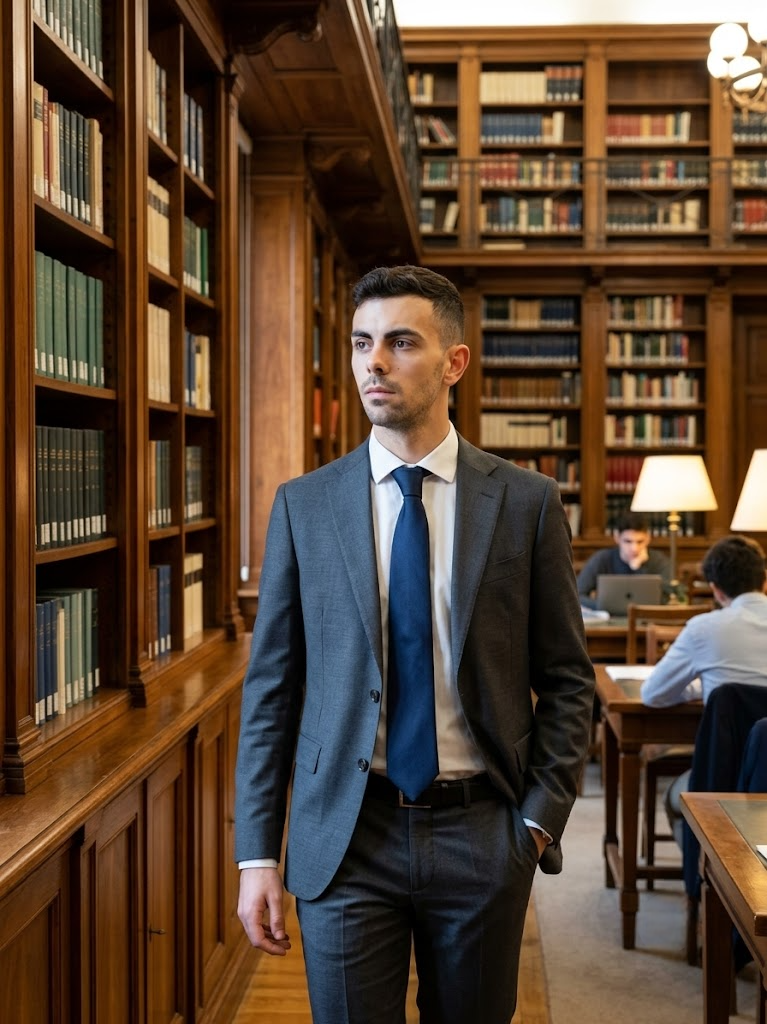
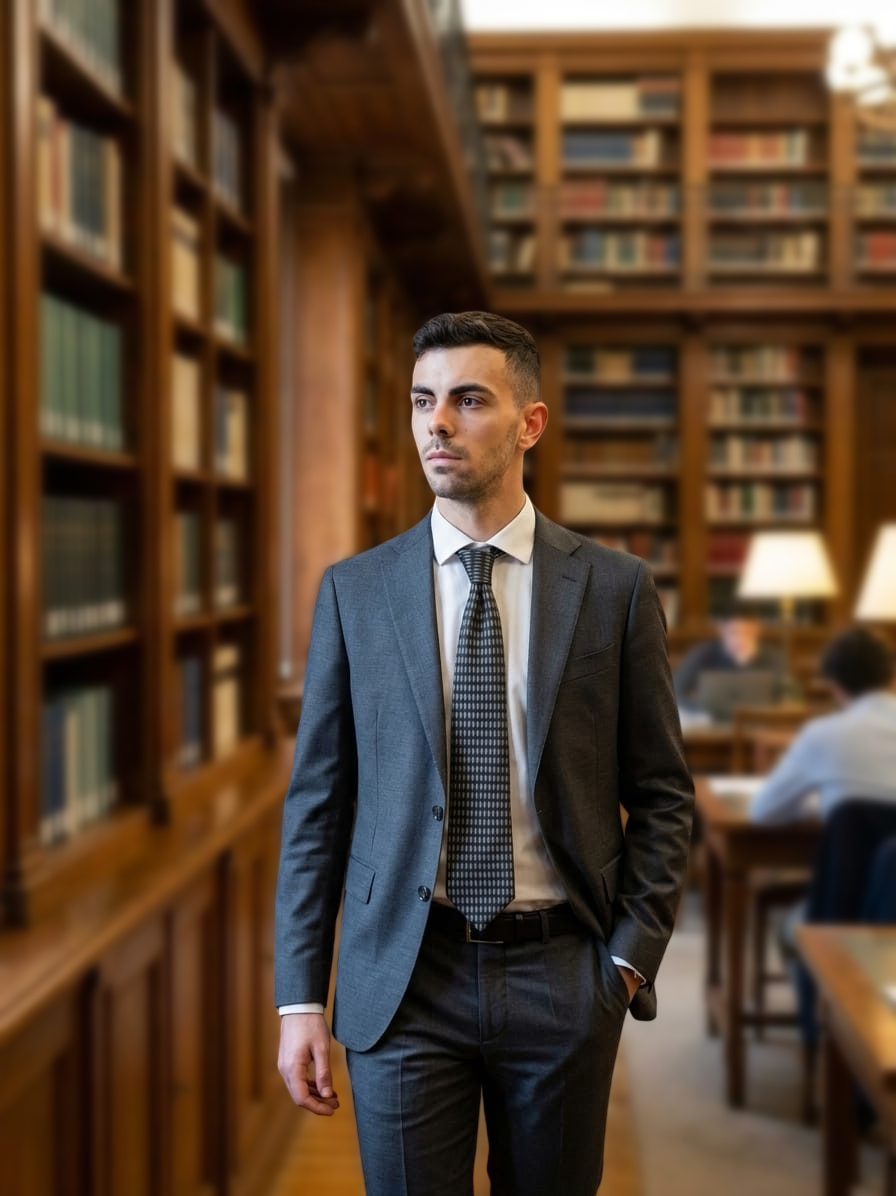
Add versioning and workflow of deploy

diff --git a/index.html b/index.html
@@ -278,23 +278,17 @@
                 <div class="ide-tree" id="skillTree">
                     <div class="tree-group">
                         <div class="tree-label">Linguaggi &amp; Framework</div>
-                        <div class="tree-item active" data-target="skill-java"><span class="level-dot"
-                                style="background:var(--green)"></span>Java</div>
-                        <div class="tree-item" data-target="skill-web"><span class="level-dot"
-                                style="background:var(--blue)"></span>Web (HTML/CSS/JS)</div>
-                        <div class="tree-item" data-target="skill-node"><span class="level-dot"
-                                style="background:var(--red)"></span>Node.js</div>
+                        <div class="tree-item active" data-target="skill-java"><svg class="tree-icon" viewBox="0 0 24 24" fill="none" stroke="currentColor" stroke-width="1.7" stroke-linecap="round" stroke-linejoin="round" style="color:var(--green)"><path d="M6 13h9v3.5a2.5 2.5 0 0 1-2.5 2.5h-4a2.5 2.5 0 0 1-2.5-2.5z"/><path d="M15 14h1.5a2 2 0 0 1 0 4H15"/><path d="M8.5 4.5c-.8.8-.8 1.7 0 2.5M11.5 4.5c-.8.8-.8 1.7 0 2.5"/></svg>Java</div>
+                        <div class="tree-item" data-target="skill-web"><svg class="tree-icon" viewBox="0 0 24 24" fill="none" stroke="currentColor" stroke-width="1.8" stroke-linecap="round" stroke-linejoin="round" style="color:var(--blue)"><polyline points="8 8 4 12 8 16"/><polyline points="16 8 20 12 16 16"/><line x1="13.5" y1="6" x2="10.5" y2="18"/></svg>Web (HTML/CSS/JS)</div>
+                        <div class="tree-item" data-target="skill-node"><svg class="tree-icon" viewBox="0 0 24 24" fill="none" stroke="currentColor" stroke-width="1.7" stroke-linejoin="round" style="color:var(--red)"><path d="M12 2.5 20 7v10l-8 4.5L4 17V7z"/></svg>Node.js</div>
                     </div>
                     <div class="tree-group">
                         <div class="tree-label">Strumenti</div>
-                        <div class="tree-item" data-target="skill-ide"><span class="level-dot"
-                                style="background:var(--green)"></span>IDE &amp; Editor</div>
-                        <div class="tree-item" data-target="skill-db"><span class="level-dot"
-                                style="background:var(--blue)"></span>Database</div>
-                        <div class="tree-item" data-target="skill-docker"><span class="level-dot"
-                                style="background:var(--blue)"></span>Docker</div>
-                        <div class="tree-item" data-target="skill-git"><span class="level-dot"
-                                style="background:var(--amber)"></span>Git</div>
+                        <div class="tree-item" data-target="skill-ide"><svg class="tree-icon" viewBox="0 0 24 24" fill="none" stroke="currentColor" stroke-width="1.7" stroke-linecap="round" stroke-linejoin="round" style="color:var(--green)"><rect x="3" y="4.5" width="18" height="15" rx="2"/><path d="M3 9h18"/><path d="M8 12.5l2 2-2 2"/><path d="M12.5 16.5H16"/></svg>IDE &amp; Editor</div>
+                        <div class="tree-item" data-target="skill-claude"><svg class="tree-icon" viewBox="0 0 24 24" fill="none" stroke="currentColor" stroke-width="1.7" stroke-linecap="round" style="color:var(--amber)"><path d="M12 2.5v6M12 15.5v6M2.5 12h6M15.5 12h6M5.3 5.3l4.2 4.2M14.5 14.5l4.2 4.2M5.3 18.7l4.2-4.2M14.5 9.5l4.2-4.2"/></svg>Claude Code</div>
+                        <div class="tree-item" data-target="skill-db"><svg class="tree-icon" viewBox="0 0 24 24" fill="none" stroke="currentColor" stroke-width="1.7" stroke-linecap="round" stroke-linejoin="round" style="color:var(--blue)"><ellipse cx="12" cy="6" rx="7" ry="3"/><path d="M5 6v12c0 1.7 3.1 3 7 3s7-1.3 7-3V6"/><path d="M5 12c0 1.7 3.1 3 7 3s7-1.3 7-3"/></svg>Database</div>
+                        <div class="tree-item" data-target="skill-docker"><svg class="tree-icon" viewBox="0 0 24 24" fill="none" stroke="currentColor" stroke-width="1.5" stroke-linecap="round" stroke-linejoin="round" style="color:var(--blue)"><rect x="3.5" y="10" width="3" height="3"/><rect x="7.5" y="10" width="3" height="3"/><rect x="11.5" y="10" width="3" height="3"/><rect x="7.5" y="6.5" width="3" height="3"/><path d="M2 15c2 1.4 5 1.4 7 0 2 1.4 5 1.4 7 0 1 .6 2 .7 3 .4"/></svg>Docker</div>
+                        <div class="tree-item" data-target="skill-git"><svg class="tree-icon" viewBox="0 0 24 24" fill="none" stroke="currentColor" stroke-width="1.7" stroke-linecap="round" stroke-linejoin="round" style="color:var(--amber)"><circle cx="6.5" cy="5.5" r="2.2"/><circle cx="6.5" cy="18.5" r="2.2"/><circle cx="17.5" cy="9" r="2.2"/><path d="M6.5 7.7v8.6"/><path d="M6.5 12.5c0-3.2 2.2-5 8.9-5.1"/></svg>Git</div>
                     </div>
                 </div>
 
@@ -383,6 +377,18 @@
                         
                         <p>I veri progetti su cui lavoro sono spesso under NDA (non-disclosure agreement),
                             quindi ospitati su repository private. Ho veramente tanti progetti sviluppati.</p>
+                    </div>
+
+                    <div class="skill-block" id="skill-claude">
+                        <h3>Claude Code</h3>
+                        <div class="lvl-line"><span class="lvl-tag solid">Uso quotidiano</span></div>
+                        <p>Assistente di sviluppo AI di <strong>Anthropic</strong>, lo uso direttamente da terminale
+                            come supporto per scrivere codice, fare refactoring e velocizzare il lavoro — incluso questo
+                            stesso portfolio.</p>
+                        <ul>
+                            <li><strong>Pair programming</strong> per sviluppo e debugging più rapidi</li>
+                            <li>Uno strumento, non una scorciatoia: il controllo e le decisioni restano mie</li>
+                        </ul>
                     </div>
 
                 </div>
@@ -478,7 +484,7 @@
                         [email redacted]
                     </div>
                     <div class="social-row">
-                        <a class="social-btn" href="https://t.me/Filipeti" target="_blank" aria-label="Telegram">
+                        <a class="social-btn" href="https://t.me/codewithfil" target="_blank" aria-label="Telegram">
                             <svg viewBox="0 0 24 24" fill="currentColor">
                                 <path
                                     d="M21.5 4.5 2.6 11.9c-1.2.5-1.2 1.2-.2 1.5l4.8 1.5 1.8 5.8c.2.7.5.9 1.1.4l2.9-2.6 4.7 3.5c.8.5 1.4.2 1.6-.7l3-14c.3-1.2-.4-1.7-1.2-1.3z" />
@@ -521,7 +527,7 @@
     </section>
 
     <footer>
-        <div class="wrap">© <span id="year"></span> CodeWithFil — tutti i diritti riservati</div>
+        <div class="wrap">© <span id="year"></span> CodeWithFil — tutti i diritti riservati<span class="version-tag" id="versionTag"></span></div>
     </footer>
 
     <script src="./script.js"></script>

diff --git a/style.css b/style.css
@@ -613,7 +613,7 @@ section {
     font-family: var(--mono);
     font-size: 13.5px;
     color: var(--text-dim);
-    padding: 9px 18px 9px 30px;
+    padding: 9px 18px 9px 14px;
     cursor: pointer;
     display: flex;
     align-items: center;
@@ -623,12 +623,10 @@ section {
     position: relative;
 }
 
-.tree-item .level-dot {
-    position: absolute;
-    left: 12px;
-    width: 6px;
-    height: 6px;
-    border-radius: 50%;
+.tree-item .tree-icon {
+    width: 16px;
+    height: 16px;
+    flex-shrink: 0;
 }
 
 .tree-item:hover {
@@ -1025,6 +1023,21 @@ footer a {
     color: var(--text-dim);
 }
 
+.version-tag {
+    display: inline-block;
+    margin-left: 10px;
+    padding: 2px 9px;
+    font-size: 11.5px;
+    color: var(--text-faint);
+    border: 1px solid var(--border);
+    border-radius: 100px;
+    vertical-align: middle;
+}
+
+.version-tag:empty {
+    display: none;
+}
+
 /* ===== RESPONSIVE ===== */
 @media (max-width: 880px) {
     .hero .wrap {
@@ -1066,17 +1079,13 @@ footer a {
     }
 
     .tree-item {
-        padding: 8px 12px 8px 22px;
+        padding: 8px 12px;
         border-left: none;
         border-radius: 6px;
     }
 
     .tree-item.active {
         border-left: none;
-    }
-
-    .tree-item .level-dot {
-        left: 8px;
     }
 
     .svc-grid {

diff --git a/script.js b/script.js
@@ -19,6 +19,19 @@ treeItems.forEach(item => {
 // ----- footer year -----
 document.getElementById('year').textContent = new Date().getFullYear();
 
+// ----- footer version (version.json generato da GitHub Actions a ogni deploy) -----
+fetch('version.json')
+    .then(r => r.ok ? r.json() : null)
+    .then(v => {
+        if (!v) return;
+        const el = document.getElementById('versionTag');
+        if (!el) return;
+        const p = (v.date || '').split('-');
+        const dateStr = p.length === 3 ? `${p[2]}/${p[1]}/${p[0]}` : v.date;
+        el.textContent = `${v.version} · ${dateStr}`;
+    })
+    .catch(() => {});
+
 // ----- contact form (Google Sheet endpoint, da mantenere o sostituire) -----
 const scriptURL = 'https://script.google.com/macros/s/AKfycbyeXu86g9wAgDF_kDZlTU-zEMJnlPlD7Udp5WaIbhZCT-VutI91aGwNqruESLN6lTcEJw/exec';
 const form = document.getElementById('contactForm');